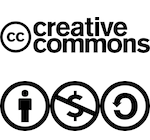
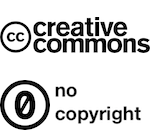
no copyright

Changed region(s): [[0.0, 0.5714, 1.0, 0.9429]]

diff --git a/index.html b/index.html
@@ -434,13 +434,12 @@
             <a href="http://www.10gen.com" id="logo" class="ro"><span>10gen</span></a>
           </div>
           <div class="yui-u">
-            <p><a href="http://bsonspec.org">bsonspec.org</a> is:<br>
+            <p id="bsonspecis"><a href="http://bsonspec.org">bsonspec.org</a> is:<br>
             &larr; sponsored by<br>
             licensed under &rarr;<br>
-            &copy; 2009 &ndash; 2010 <a href="http://www.10gen.com">10gen, Inc.</a></p>
           </div>
           <div class="yui-u">
-            <a href="http://creativecommons.org/licenses/by-nc-sa/3.0/" id="cc" class="ro"><span>Creative Commons</span></a>
+            <a href="http://creativecommons.org/publicdomain/zero/1.0/" id="cc" class="ro"><span>Creative Commons &mdash; CC0</span></a>
           </div>
         </div>
       </div>

diff --git a/css/style.css b/css/style.css
@@ -233,4 +233,7 @@ table#examples td {
 }
 .highlight {
     font-weight: bold;
-};
+}
+#bsonspecis {
+    padding-top: 1em;
+}
